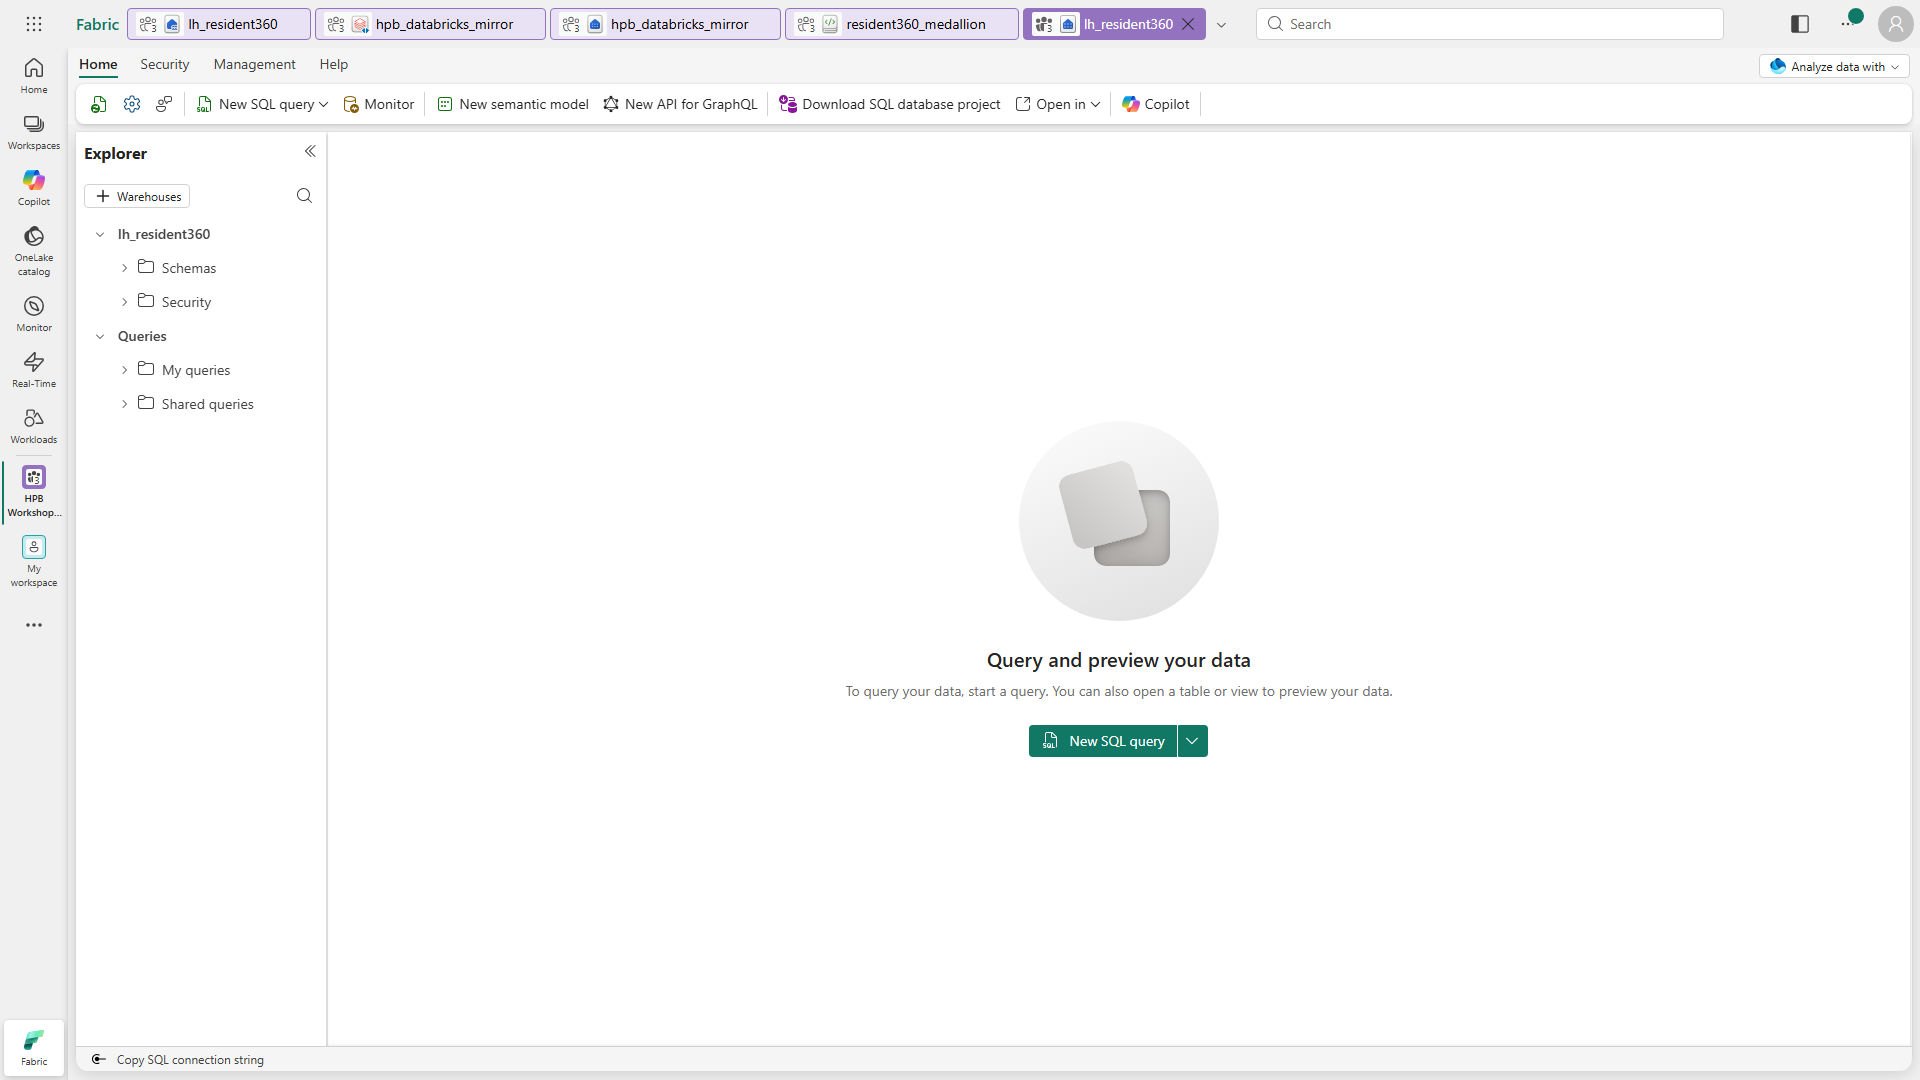
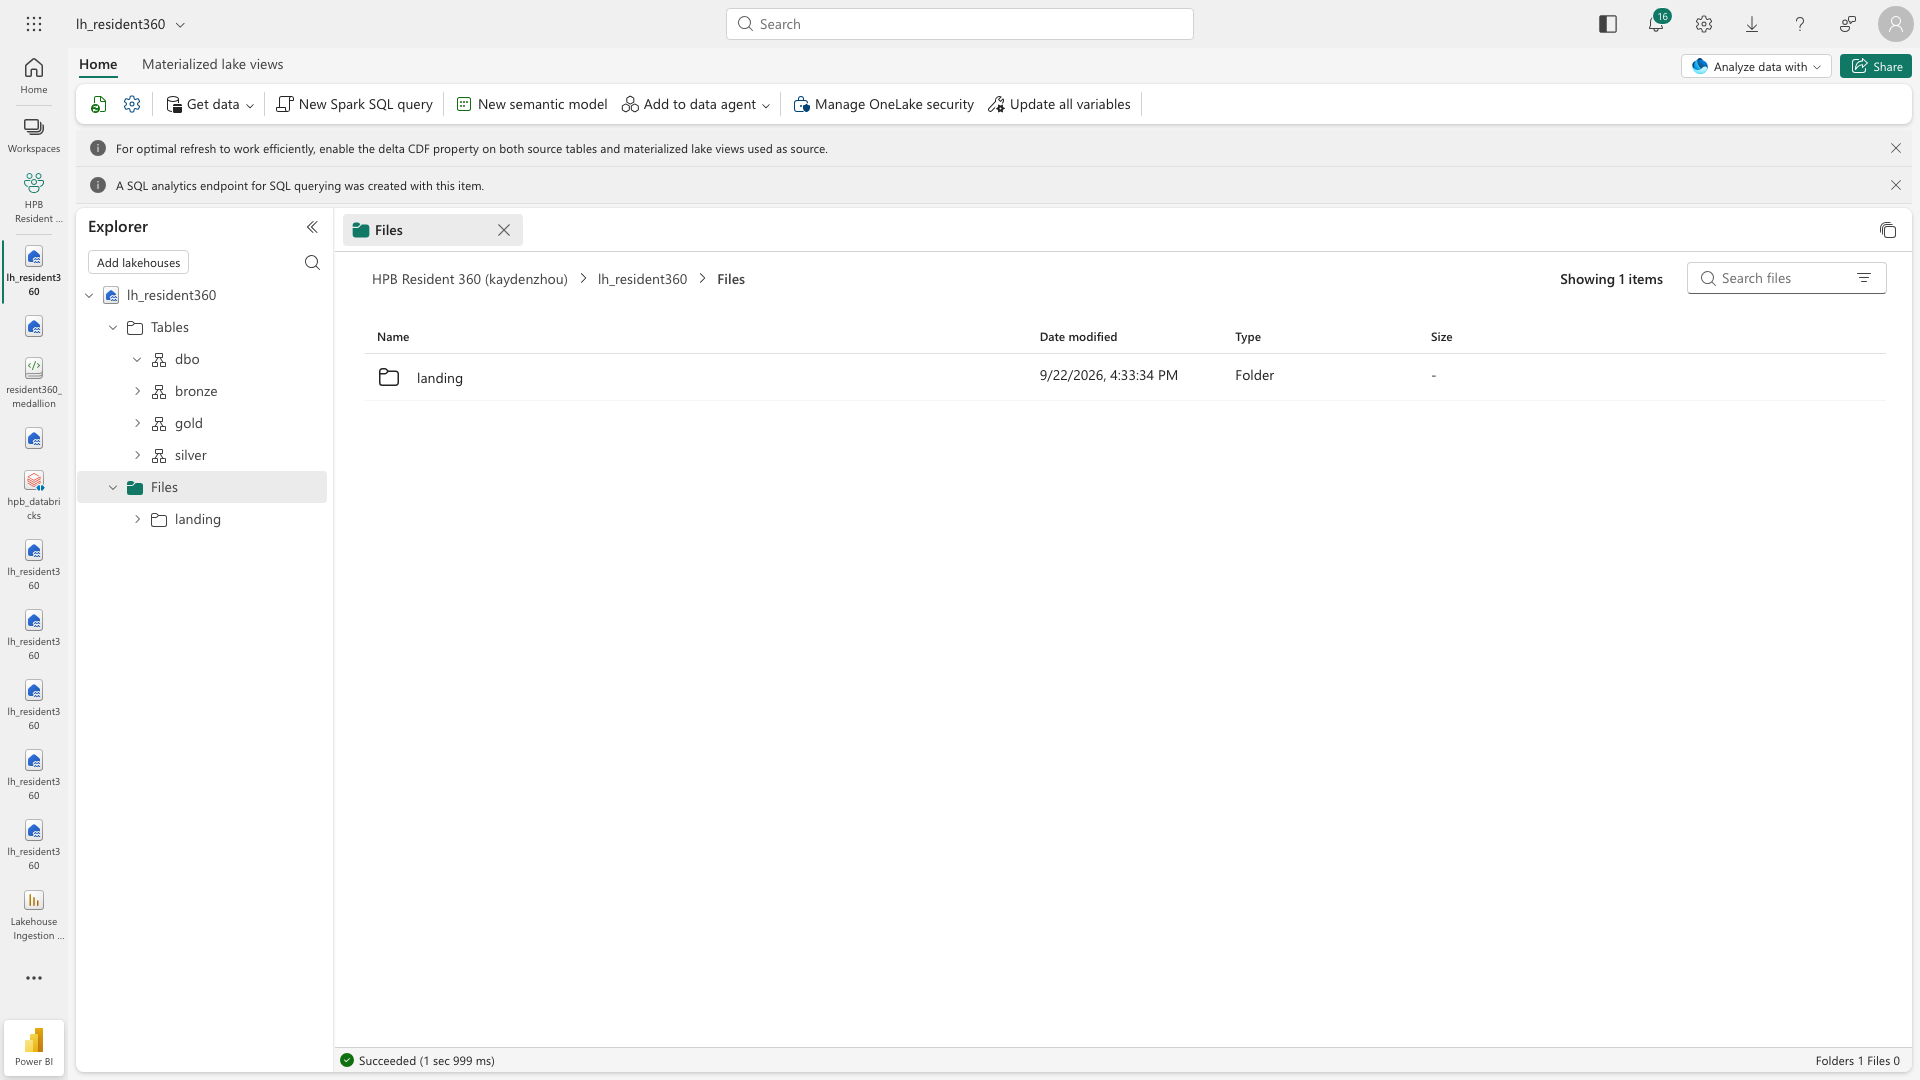
docs(images): drop 25 orphaned screenshots, wire in two that were captured but unused
Counting what actually needs recapturing changed the picture. Of 78 images, 52
are referenced by a guide and 26 were referenced by nothing - including 15
filed under lab2 that are plainly Lab 1 screens (upload panel, import notebook
menu, OneLake picker) left behind by an earlier numbering.

So the real gap is 38 stale-and-referenced images, not 62. The orphans were
3.6 MB of a repo every participant downloads as a ZIP in Lab 0 Task 3.

Checked against every markdown file in the repo, not just the lab READMEs, and
verified afterwards that nothing referenced is now missing.

Also referenced lab1-11-mirror-tables.png, captured earlier today and never
wired in - it shows the five gold tables with Mirrored status, which is exactly
what step 8 asks the reader to confirm.

Recaptured from real runs: lab2-01-dashboard (hub observability) and
lab1-3a-newsm-button (the New semantic model ribbon button).

Copilot-Session: 85c177c5-2f1b-410d-88d1-68692b45b3ee

diff --git a/lab1-build-resident360/README.md b/lab1-build-resident360/README.md
@@ -179,8 +179,12 @@ Fabric with **zero copies** (Fabric reads them live).
    > catalog list **per session**, so you must then **stop and restart your notebook's Spark session** before the new
    > name resolves. Renaming alone is not enough.
 
-8. The `gold` tables sync in 1–3 min. **Verify (zero-copy):** open **`hpb_databricks_mirror`**, then switch to its
-   **SQL analytics endpoint**. There are two ways to get there:
+8. The `gold` tables sync in 1–3 min. Open **`hpb_databricks_mirror`** — you should see the five `gold` tables
+   listed, with **Mirrored / Success** status. Fabric is reading them in place; there is no copy.
+
+   ![The mirror showing the five gold tables with Mirrored status.](../docs/images/lab1/lab1-11-mirror-tables.png)
+
+   **Verify (zero-copy):** switch to its **SQL analytics endpoint**. There are two ways to get there:
    - Inside the open mirror, click the **Databricks** dropdown (top-right) → **SQL analytics endpoint**, **or**
    - Click the green **View SQL endpoint** button in the centre of the mirror's page.
 
